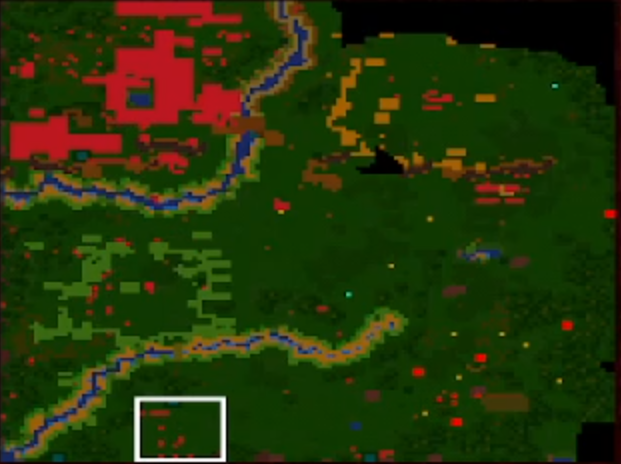
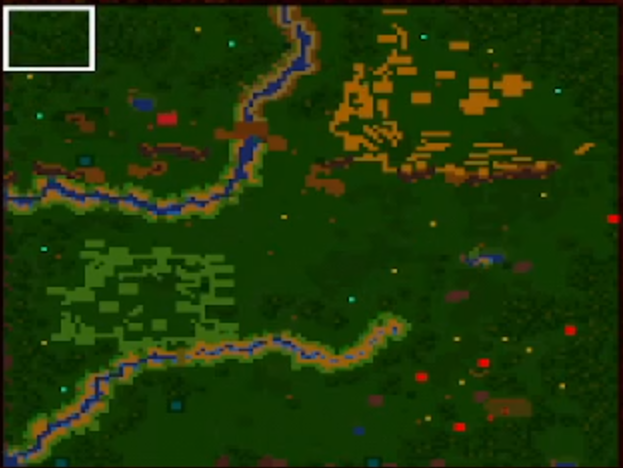
maps update

diff --git a/Readme.md b/Readme.md
@@ -229,7 +229,7 @@ Ctrl+Shift+Alt+H | Heals The Troops/Workers That Are Selected (Not Buildings)
 
 
 
-# technical links
+# Technical links
 
 ## ddraw
 Fixed the avi/cinematic errors, does not fix random game crashes. Copy ddraw.dll to game directory, launch game, if log file in the game directory was created - dll is working. Use ini or internal settings to interact with advanced graphics settings
@@ -247,4 +247,3 @@ All contributions are welcome, if you have any information about the game, pleas
 # TODO
 - [ ] finish tech tree
 - [ ] add hero items
-- [ ] get better maps
